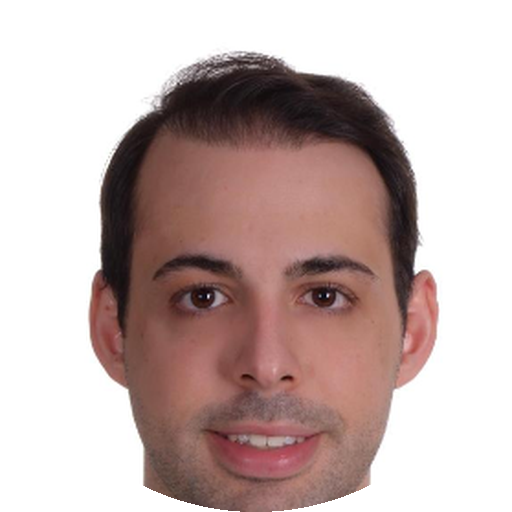
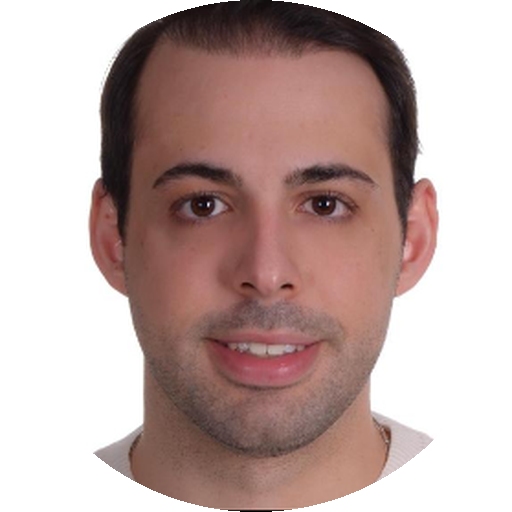
hero: your copy, route + door counter above the fold, face-centred portrait, Hype Merch numbers

diff --git a/content.js b/content.js
@@ -15,7 +15,7 @@ window.CONTENT = {
         ] },
     ],
     me: { name: "Amir Maya", title: "Marketplace consultant · builder", where: "Istanbul, Türkiye",
-          tagline: "I grow sellers for a living and build the tooling that does it at scale.",
+          tagline: "I'm Amir, a builder and lifelong learner. I built Hype Merch from the ground up and led product, operations, finance and growth; today I work with strategic sellers at Amazon, helping them grow. I care about understanding customers, communicating clearly, and turning ideas into action.",
           langs: [["Turkish","Native",100],["English","Native",100],["Hebrew","Intermediate",55],["Spanish","Beginner",25]],
           certs: [
             { t: "Programming for Everybody (Getting Started with Python)", o: "University of Michigan", d: "Apr 2019", u: "https://www.coursera.org/account/accomplishments/verify/CM787GUYJFXD" },
@@ -29,8 +29,8 @@ window.CONTENT = {
             { t: "MongoDB Basics", o: "MongoDB University", d: "2020", u: "" }
           ],
           interests: ["Tech & digital ecosystems","Financial markets & crypto","Competitive team sports","Sneakers & streetwear"],
-          glance: [["8 / 10","top Softlines sellers managed"],["117","account managers on Oculus"],["147K+","competitor sellers mapped"],["$3.1M","Hype-Merch GMV"]] },
-    headlines: ["Six years, five stops.", "I grow sellers. Then I build the tools.", "Sneaker bots → a marketplace → Amazon.", "Everything here has proof behind it."],
+          glance: [["8 / 10","top Softlines sellers managed"],["117","account managers on Oculus"],["147K+","competitor sellers mapped"],["200M+ TRY","Hype-Merch GMV"]] },
+    headlines: ["There's always a better way to do things.", "Built Hype Merch from the ground up: 200M+ TRY GMV, 40K+ sales, 55K users.", "Now at Amazon, growing strategic sellers in 3P Softlines.", "Product thinking, execution, and work that moves the needle."],
     duty_facts: [["Now", "Strategic Account Services, Amazon Turkey"], ["Focus", "Softlines · seller growth · internal tooling"], ["Speaks", "TR · EN · HE · ES"], ["Base", "Istanbul"]],
     ui: { story: "Story", facts: "Profile", role_short: "Marketplace consultant", eyebrow: "My career, laid out as a route · Istanbul", cta_story: "Walk the route", cv: "Resume (PDF)", duty: "Account manager on duty", live: "Available",
           route_eyebrow: "00 · Route · Five stops", door: "Live · Door counter", door_today: "visits today", door_now: "here now", door_avg: "average visit", door_note: "Anonymous · no cookies", s1_eyebrow: "01 · Story · Stop by stop", s1_title: "Stop by stop.", s1_intro: "Each stop is its own chapter: what I did there, what it taught me, and what I built because of it.",
@@ -52,8 +52,8 @@ window.CONTENT = {
         lead: "Real-time restock and raffle monitors for the Turkish sneaker market, delivered through Discord. Scrapers, monitors, alert bots.",
         body: ["First product, first paying community, first time code paid rent. It also showed where the real gap was: there was no proper place to trade what people were buying."] },
       { id: "hypemerch", years: "2020 – 2024", logo: "tiles/hypemerch.png", name: "Hype-Merch", kicker: "Co-founder · Product Owner · Turkey's first sneaker marketplace",
-        lead: "Built a sneaker and streetwear marketplace from zero to $3.1M GMV and 2,000+ active sellers.",
-        stats: [["$3.1M","GMV"],["2,000+","active sellers"],["Top 100","App Store Shopping"],["10 Sep 2023","app launch"]],
+        lead: "Built a sneaker and streetwear marketplace from zero to 200M+ TRY GMV, 40K+ sales and 55K users, leading product, operations, finance and growth.",
+        stats: [["200M+ TRY","GMV"],["40K+","sales"],["55K","users"],["Top 100","App Store Shopping"]],
         body: ["Owned the roadmap and the platform end to end: listing management, seller dashboards, payout distribution, shipping operations, API integrations, onboarding UX, internal automation.",
                "Mobile app launched 10 September 2023 and held Top 100–200 in App Store Shopping through 2023–24."],
         press: [
@@ -103,7 +103,7 @@ window.CONTENT = {
         ] },
     ],
     me: { name: "Amir Maya", title: "Marketplace danışmanı · builder", where: "İstanbul, Türkiye",
-          tagline: "İşim satıcı büyütmek; bunu ölçekte yapan araçları da ben kurarım.",
+          tagline: "Ben Amir; kuran ve öğrenmeyi bırakmayan biri. Hype Merch'i sıfırdan kurdum; ürün, operasyon, finans ve büyümeyi yönettim. Bugün Amazon'da stratejik satıcılarla çalışıyorum, büyümelerine yardım ediyorum. Müşteriyi anlamak, net iletişim ve fikri eyleme dönüştürmek benim için önemli.",
           langs: [["Türkçe","Ana dil",100],["İngilizce","Ana dil",100],["İbranice","Orta",55],["İspanyolca","Başlangıç",25]],
           certs: [
             { t: "Programming for Everybody (Getting Started with Python)", o: "Michigan Üniversitesi", d: "Nis 2019", u: "https://www.coursera.org/account/accomplishments/verify/CM787GUYJFXD" },
@@ -117,8 +117,8 @@ window.CONTENT = {
             { t: "MongoDB Basics", o: "MongoDB University", d: "2020", u: "" }
           ],
           interests: ["Teknoloji & dijital ekosistemler","Finansal piyasalar & kripto","Takım sporları","Sneaker & streetwear"],
-          glance: [["8 / 10","yönetilen en büyük Softlines satıcısı"],["117","Oculus kullanan hesap yöneticisi"],["147K+","haritalanan rakip satıcı"],["3,1 M$","Hype-Merch GMV"]] },
-    headlines: ["Altı yıl, beş durak.", "Satıcı büyütürüm. Sonra aracını yaparım.", "Sneaker botları → bir marketplace → Amazon.", "Buradaki her şeyin arkasında kanıt var."],
+          glance: [["8 / 10","yönetilen en büyük Softlines satıcısı"],["117","Oculus kullanan hesap yöneticisi"],["147K+","haritalanan rakip satıcı"],["200M+ TL","Hype-Merch GMV"]] },
+    headlines: ["Her işin daha iyi bir yolu vardır.", "Hype Merch'i sıfırdan kurdum: 200M+ TL GMV, 40K+ satış, 55K kullanıcı.", "Şimdi Amazon'da, 3P Softlines'ta stratejik satıcıları büyütüyorum.", "Ürün düşüncesi, icraat ve gerçekten fark yaratan işler."],
     duty_facts: [["Şimdi", "Strategic Account Services, Amazon Türkiye"], ["Odak", "Softlines · satıcı büyümesi · dahili araçlar"], ["Diller", "TR · EN · HE · ES"], ["Üs", "İstanbul"]],
     ui: { story: "Hikâye", facts: "Profil", role_short: "Marketplace danışmanı", eyebrow: "Kariyerim, bir rota olarak · İstanbul", cta_story: "Rotayı yürü", cv: "Özgeçmiş (PDF)", duty: "Nöbetçi hesap yöneticisi", live: "Müsait",
           route_eyebrow: "00 · Rota · Beş durak", door: "Canlı · Kapı sayacı", door_today: "bugün ziyaret", door_now: "şu an içeride", door_avg: "ortalama süre", door_note: "Anonim · çerez yok", s1_eyebrow: "01 · Hikâye · Durak durak", s1_title: "Durak durak.", s1_intro: "Her durak kendi bölümü: orada ne yaptım, bana ne öğretti, bu yüzden ne kurdum.",
@@ -140,8 +140,8 @@ window.CONTENT = {
         lead: "Türkiye sneaker pazarı için gerçek zamanlı stok ve çekiliş monitörleri, Discord üzerinden. Scraper'lar, monitörler, uyarı botları.",
         body: ["İlk ürün, ilk ödeyen topluluk, kodun ilk kez kira ödediği an. Asıl boşluğu da gösterdi: insanların aldığı şeyleri alıp satacağı düzgün bir yer yoktu."] },
       { id: "hypemerch", years: "2020 – 2024", logo: "tiles/hypemerch.png", name: "Hype-Merch", kicker: "Kurucu ortak · Product Owner · Türkiye'nin ilk sneaker pazarı",
-        lead: "Sneaker ve streetwear marketplace'ini sıfırdan 3,1 M$ GMV ve 2.000+ aktif satıcıya taşıdım.",
-        stats: [["3,1 M$","GMV"],["2.000+","aktif satıcı"],["Top 100","App Store Alışveriş"],["10 Eyl 2023","uygulama lansmanı"]],
+        lead: "Sneaker ve streetwear marketplace'ini sıfırdan 200M+ TL GMV, 40K+ satış ve 55K kullanıcıya taşıdım; ürün, operasyon, finans ve büyümeyi yönettim.",
+        stats: [["200M+ TL","GMV"],["40K+","satış"],["55K","kullanıcı"],["Top 100","App Store Alışveriş"]],
         body: ["Yol haritası ve platform uçtan uca bendeydi: listeleme yönetimi, satıcı panelleri, ödeme dağıtımı, kargo operasyonu, API entegrasyonları, onboarding deneyimi, dahili otomasyon.",
                "Mobil uygulama 10 Eylül 2023'te çıktı; 2023–24 boyunca App Store Alışveriş'te Top 100–200'de kaldı."],
         press: [

diff --git a/styles.css b/styles.css
@@ -34,14 +34,14 @@ main{transition:opacity .22s}main.switching{opacity:0}
 
 /* hero */
 .hero{border-bottom:1.5px solid var(--line)}
-.hero-in{padding-top:56px;padding-bottom:48px;display:flex;flex-direction:column;gap:44px}
+.hero-in{padding-top:36px;padding-bottom:56px;display:flex;flex-direction:column;gap:18px}
 .hero-top{display:flex;flex-direction:column;gap:14px}
 .hl-wrap{display:flex;flex-direction:column;gap:14px}
-.hl{font-size:clamp(36px,5.2vw,68px);min-height:1.05em;transition:opacity .35s,transform .35s var(--ease)}.hl.is-fading{opacity:0;transform:translateY(6px)}
+.hl{font-size:clamp(30px,3.6vw,48px);min-height:1.05em;transition:opacity .35s,transform .35s var(--ease)}.hl.is-fading{opacity:0;transform:translateY(6px)}
 .hl-dots{display:flex;gap:6px}.hl-dot{width:22px;height:22px;border:0;background:transparent;cursor:pointer;display:grid;place-items:center;padding:0}.hl-dot::before{content:"";width:8px;height:8px;border-radius:50%;border:1.5px solid var(--muted);transition:transform .2s,background .2s,border-color .2s}.hl-dot:hover::before{border-color:var(--ink);transform:scale(1.2)}.hl-dot.on::before{background:var(--accent);border-color:var(--accent)}
-.hero-body{display:flex;flex-wrap:wrap;align-items:flex-start;justify-content:space-between;gap:40px 72px}
+.hero-body{display:flex;flex-wrap:wrap;align-items:flex-start;justify-content:space-between;gap:40px 72px;border-top:1.5px solid var(--line);padding-top:40px;margin-top:10px}
 .hero-left{flex:1 1 520px;display:flex;flex-direction:column;gap:30px}
-.intro{margin:0;max-width:36ch;font-size:24px;line-height:1.42;color:var(--ink2)}
+.intro{margin:0;max-width:52ch;font-size:19px;line-height:1.42;color:var(--ink2)}
 .duty{flex:0 1 440px;border:1.5px solid var(--line);background:var(--surface);padding:18px 20px 20px;box-shadow:6px 6px 0 var(--soft);display:flex;flex-direction:column;gap:16px}
 .duty-head{display:flex;justify-content:space-between;align-items:center}
 .live{font-family:var(--mono);font-size:10.5px;letter-spacing:.1em;text-transform:uppercase;display:inline-flex;align-items:center;gap:7px;color:var(--ink)}.live i{width:8px;height:8px;border-radius:50%;background:#1DB954;box-shadow:0 0 0 0 rgba(29,185,84,.5);animation:pulse 2s infinite}
@@ -55,14 +55,14 @@ main{transition:opacity .22s}main.switching{opacity:0}
 .door{display:flex;align-items:center;gap:22px;flex-wrap:wrap;opacity:.35;transition:opacity .6s}.door.ready{opacity:1}
 .dstat{display:flex;flex-direction:column;line-height:1.1}.dstat b{font-size:18px;font-weight:600;color:var(--ink);letter-spacing:.02em}.dstat span{font-family:var(--mono);font-size:10px;letter-spacing:.08em;text-transform:uppercase;color:var(--muted)}
 /* route */
-.route-head{display:flex;justify-content:space-between;align-items:center;padding:22px 0 6px}
-.route{position:relative;min-height:400px;margin:0 -10px 10px;color:var(--ink)}
+.route-head{display:flex;justify-content:space-between;align-items:center;padding:10px 0 0}
+.route{position:relative;min-height:330px;margin:0 -10px 10px;color:var(--ink)}
 .route-svg{position:absolute;inset:0;width:100%;height:100%;overflow:visible}
 .stops{position:absolute;inset:0}
 .stop{position:absolute;transform:translate(-50%,-50%);display:flex;flex-direction:column;align-items:center;gap:12px;opacity:0;transition:opacity .7s var(--ease)}.stop.in{opacity:1}
-.stop .disc{width:112px;height:112px;border-radius:50%;border:1.5px solid var(--line);overflow:hidden;cursor:pointer;background:var(--surface);transition:transform .35s var(--ease),box-shadow .35s;box-shadow:0 0 0 0 var(--line)}
+.stop .disc{width:96px;height:96px;border-radius:50%;border:1.5px solid var(--line);overflow:hidden;cursor:pointer;background:var(--surface);transition:transform .35s var(--ease),box-shadow .35s;box-shadow:0 0 0 0 var(--line)}
 .stop .disc img{width:100%;height:100%;object-fit:cover;display:block}
-.stop.big .disc{width:128px;height:128px}
+.stop.big .disc{width:110px;height:110px}
 .stop:hover .disc,.stop.lit .disc{transform:translate(-3px,-3px);box-shadow:1px 1px 0 var(--line),2px 2px 0 var(--line),3px 3px 0 var(--line),4px 4px 0 var(--line),5px 5px 0 var(--line),6px 6px 0 var(--line)}
 .stop.lit .disc{box-shadow:1px 1px 0 var(--accent),2px 2px 0 var(--accent),3px 3px 0 var(--accent),4px 4px 0 var(--accent),5px 5px 0 var(--accent),6px 6px 0 var(--accent)}
 .stop .lbl{text-align:center;line-height:1.3}.stop .lbl b{display:block;font-size:13px;font-weight:700;color:var(--ink);letter-spacing:-.01em}.stop .lbl .yr{font-family:var(--mono);font-size:10.5px;color:var(--muted);letter-spacing:.08em}

diff --git a/index.html b/index.html
@@ -31,8 +31,21 @@
     <div class="wrap hero-in">
       <div class="hero-top">
         <p class="eyebrow" data-ui="eyebrow"></p>
-        <div class="hl-wrap"><h1 class="hl" id="hl"></h1>
-          <div class="hl-dots" id="hldots"></div></div>
+        <div class="hl-wrap"><h1 class="hl" id="hl"></h1><div class="hl-dots" id="hldots"></div></div>
+      </div>
+      <div class="route-head"><span class="eyebrow" data-ui="route_eyebrow"></span>
+        <div class="door" id="door"><span class="live"><i></i><span data-ui="door"></span></span>
+          <span class="dstat"><b class="mono" data-k="today">0000</b><span data-ui="door_today"></span></span>
+          <span class="dstat"><b class="mono" data-k="online">1</b><span data-ui="door_now"></span></span>
+          <span class="dstat"><b class="mono" data-k="avg">—</b><span data-ui="door_avg"></span></span>
+          <span class="eyebrow dim" data-ui="door_note"></span></div></div>
+      <div class="route" id="route">
+        <svg class="route-svg" id="routeSvg" viewBox="0 0 1400 420" preserveAspectRatio="none" aria-hidden="true">
+          <path id="routeGhost" d="" fill="none" stroke="currentColor" stroke-width="1.5" stroke-dasharray="2 8" opacity=".25"/>
+          <path id="routePath" d="" fill="none" stroke="currentColor" stroke-width="2.5" stroke-linecap="round"/>
+        </svg>
+        <div class="stops" id="stops"></div>
+        <div class="tip" id="tip"><span class="eyebrow" id="tipK"></span><span id="tipT"></span></div>
       </div>
       <div class="hero-body">
         <div class="hero-left">
@@ -47,22 +60,6 @@
           </div>
           <dl class="duty-facts" id="dutyFacts"></dl>
         </aside>
-      </div>
-    </div>
-    <div class="wrap">
-      <div class="route-head"><span class="eyebrow" data-ui="route_eyebrow"></span>
-        <div class="door" id="door"><span class="live"><i></i><span data-ui="door"></span></span>
-          <span class="dstat"><b class="mono" data-k="today">0000</b><span data-ui="door_today"></span></span>
-          <span class="dstat"><b class="mono" data-k="online">1</b><span data-ui="door_now"></span></span>
-          <span class="dstat"><b class="mono" data-k="avg">—</b><span data-ui="door_avg"></span></span>
-          <span class="eyebrow dim" data-ui="door_note"></span></div></div>
-      <div class="route" id="route">
-        <svg class="route-svg" id="routeSvg" viewBox="0 0 1400 420" preserveAspectRatio="none" aria-hidden="true">
-          <path id="routeGhost" d="" fill="none" stroke="currentColor" stroke-width="1.5" stroke-dasharray="2 8" opacity=".25"/>
-          <path id="routePath" d="" fill="none" stroke="currentColor" stroke-width="2.5" stroke-linecap="round"/>
-        </svg>
-        <div class="stops" id="stops"></div>
-        <div class="tip" id="tip"><span class="eyebrow" id="tipK"></span><span id="tipT"></span></div>
       </div>
     </div>
   </section>

diff --git a/app.js b/app.js
@@ -37,7 +37,7 @@
   }
 
   /* route */
-  const DESK = [[.09,.58],[.3,.32],[.5,.6],[.7,.32],[.91,.56]];
+  const DESK = [[.09,.6],[.3,.3],[.5,.62],[.7,.3],[.91,.58]];
   const MOB  = [[.26,.08],[.74,.28],[.26,.5],[.74,.7],[.5,.92]];
   const pts = () => innerWidth <= 1000 ? MOB : DESK;
   function pathD(P, w, h) {
